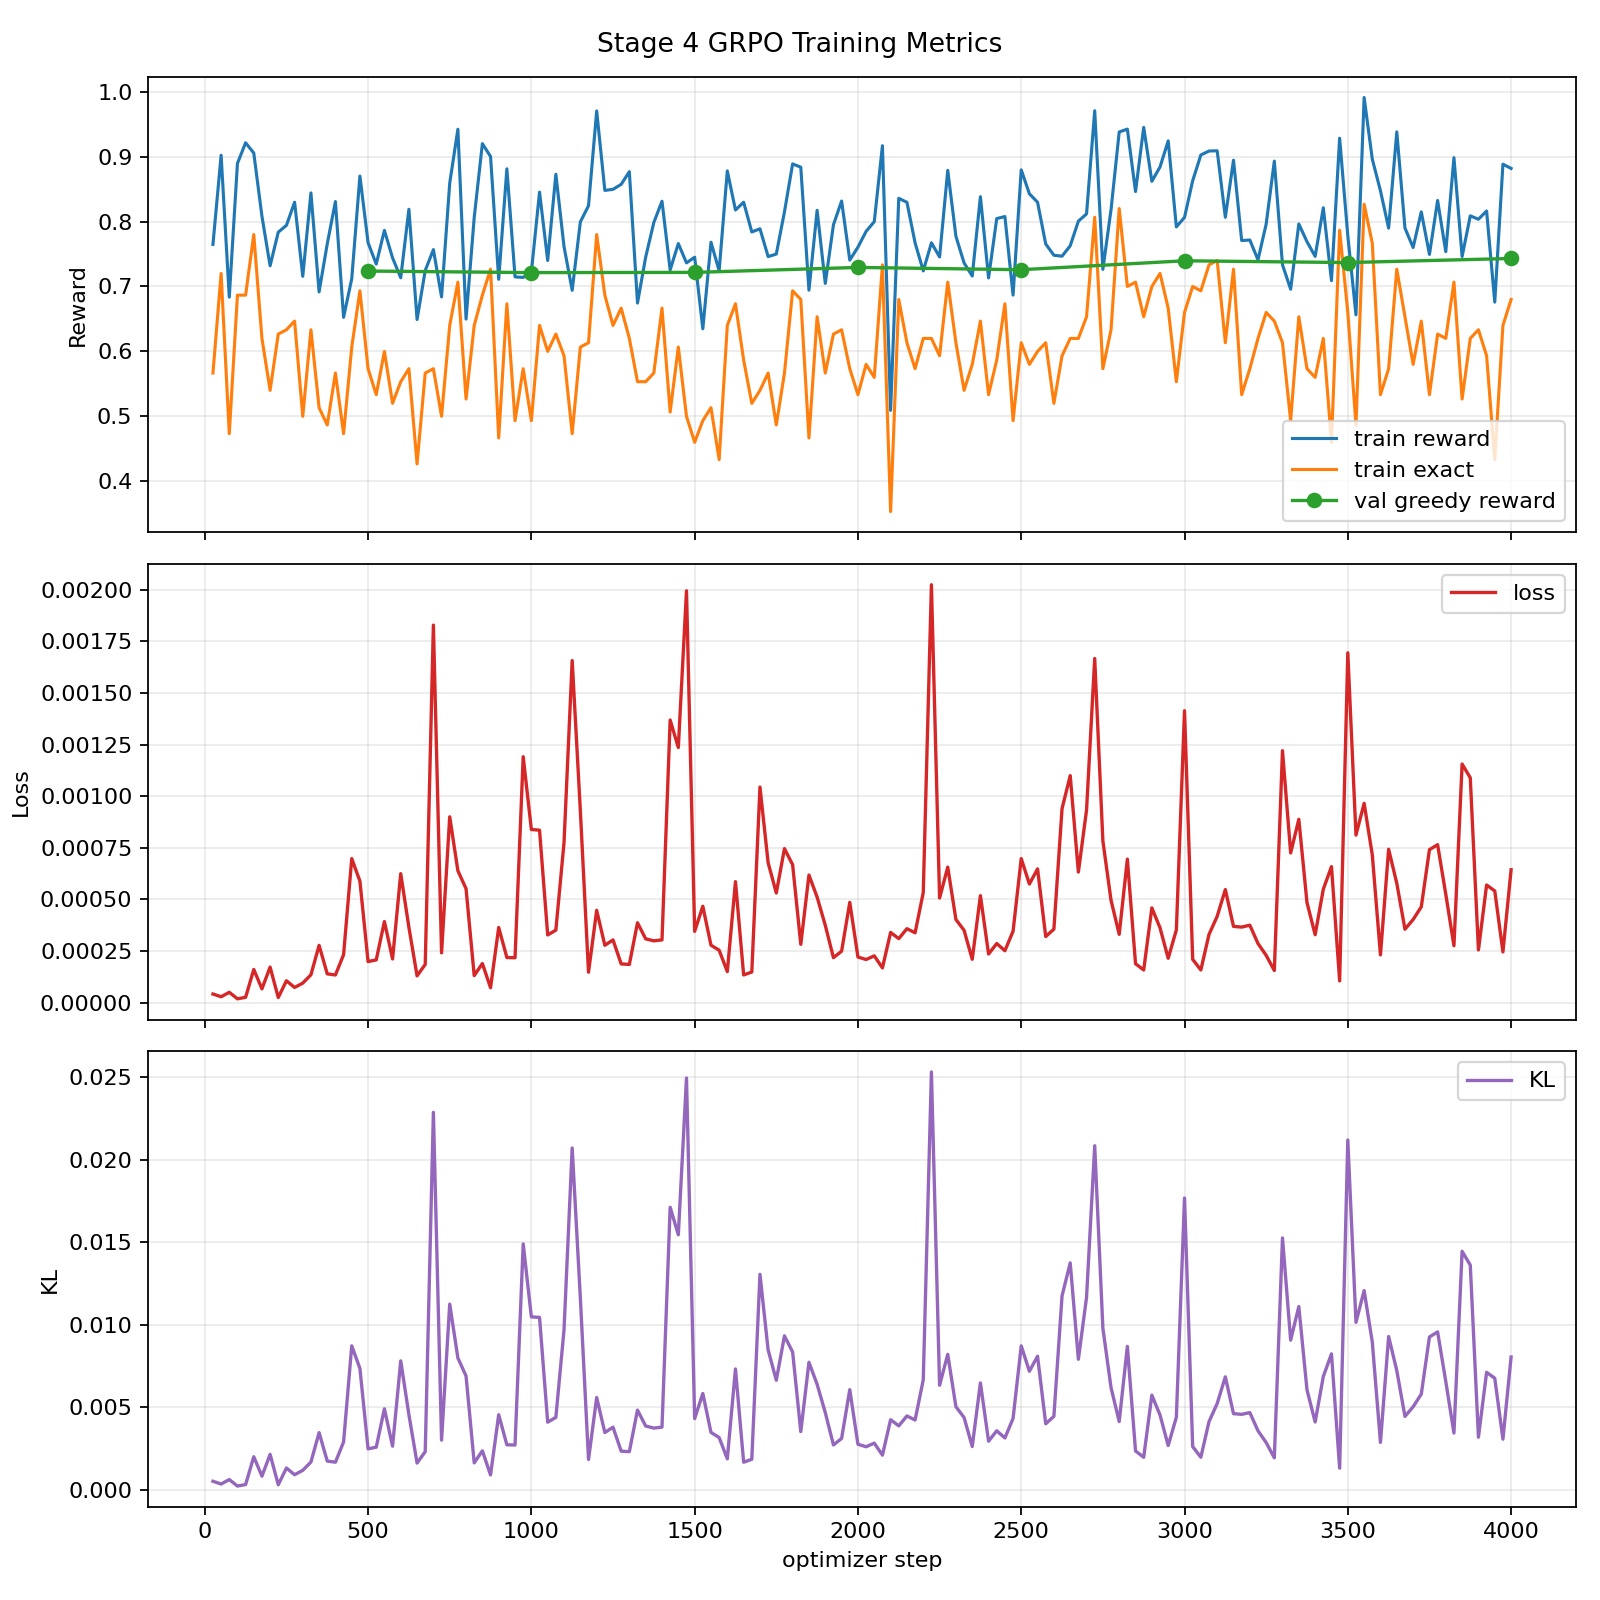
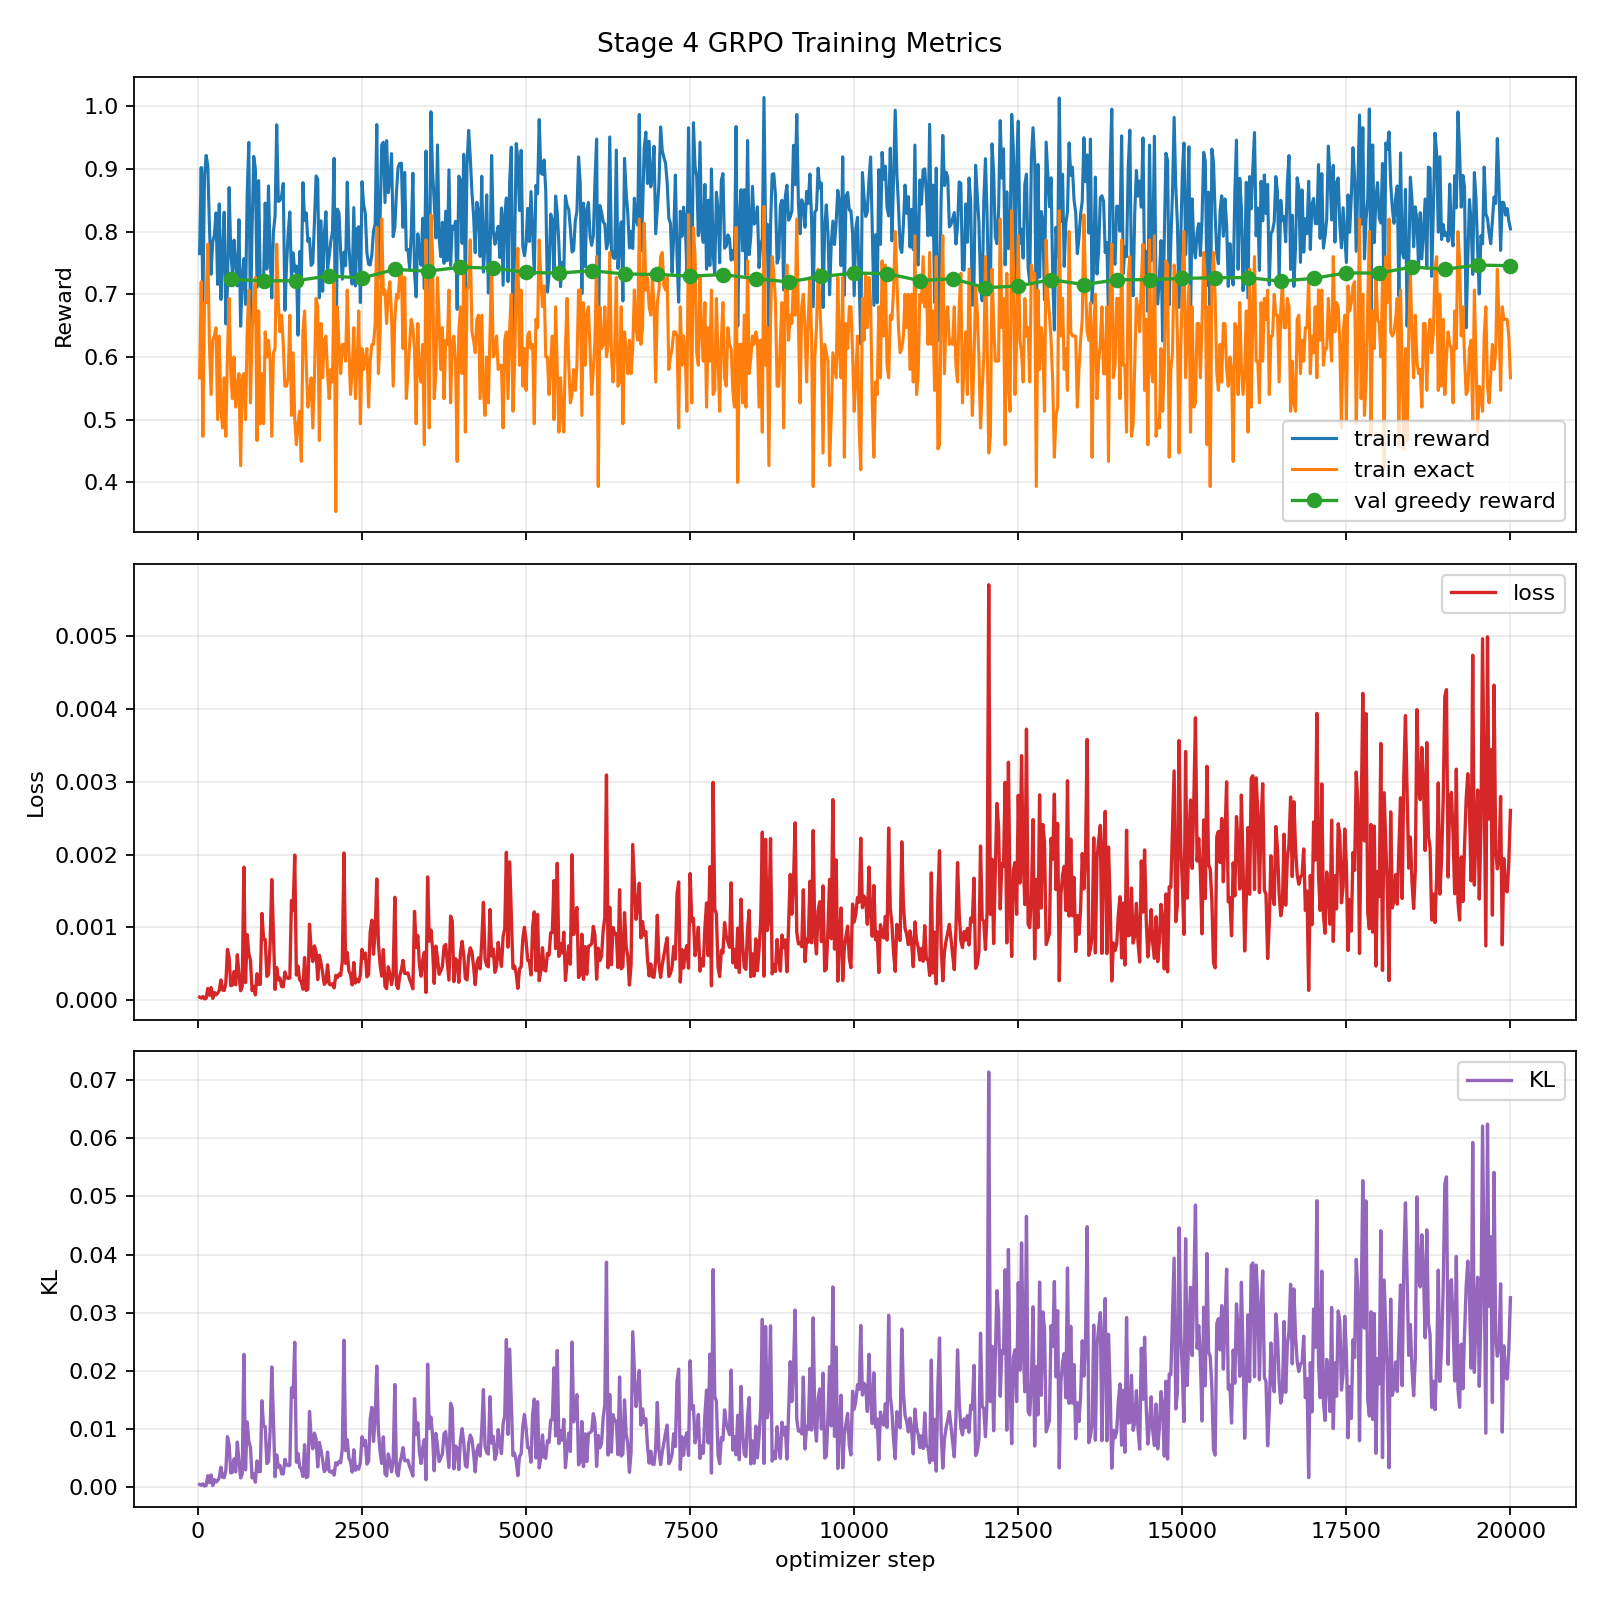
Resume visual GRPO to 20k

diff --git a/src/vlm/training/train_stage4_grpo.py b/src/vlm/training/train_stage4_grpo.py
@@ -54,6 +54,7 @@ class Stage4GRPOConfig:
     val_annotation_path: str | None = "/root/autodl-tmp/hf_datasets/stage4_ecommerce/stage4_abo/grpo/val.json"
     init_projector_path: str = "/root/autodl-tmp/checkpoints/stage4_abo_sft_100k_balanced/best/projector.pt"
     init_lora_path: str = "/root/autodl-tmp/checkpoints/stage4_abo_sft_100k_balanced/best/lora_adapter"
+    resume_from_checkpoint: str | None = None
     output_dir: str = "/root/autodl-tmp/checkpoints/stage4_abo_grpo"
 
     image_size: int = 384
@@ -130,6 +131,7 @@ def parse_args() -> Stage4GRPOConfig:
     parser.add_argument("--val-annotation-path", default=Stage4GRPOConfig.val_annotation_path)
     parser.add_argument("--init-projector-path", default=Stage4GRPOConfig.init_projector_path)
     parser.add_argument("--init-lora-path", default=Stage4GRPOConfig.init_lora_path)
+    parser.add_argument("--resume-from-checkpoint", default=Stage4GRPOConfig.resume_from_checkpoint)
     parser.add_argument("--output-dir", default=Stage4GRPOConfig.output_dir)
 
     parser.add_argument("--image-size", type=int, default=Stage4GRPOConfig.image_size)
@@ -192,6 +194,7 @@ def parse_args() -> Stage4GRPOConfig:
         val_annotation_path=args.val_annotation_path,
         init_projector_path=args.init_projector_path,
         init_lora_path=args.init_lora_path,
+        resume_from_checkpoint=args.resume_from_checkpoint,
         output_dir=args.output_dir,
         image_size=args.image_size,
         max_prompt_length=args.max_prompt_length,
@@ -332,6 +335,8 @@ def build_model(
     helper: VLMDataCollator,
     *,
     trainable: bool,
+    projector_path: str | Path | None = None,
+    lora_path: str | Path | None = None,
 ) -> QwenSiglipVLM:
     """加载 Stage4 SFT 模型。
 
@@ -354,14 +359,14 @@ def build_model(
         )
     )
 
-    projector_path = Path(config.init_projector_path)
+    projector_path = Path(projector_path or config.init_projector_path)
     if not projector_path.is_file():
         raise FileNotFoundError(f"初始化 projector 不存在：{projector_path}")
     model.projector.load_state_dict(torch.load(projector_path, map_location="cpu"))
 
     from peft import PeftModel
 
-    lora_path = Path(config.init_lora_path)
+    lora_path = Path(lora_path or config.init_lora_path)
     if not lora_path.is_dir():
         raise FileNotFoundError(f"初始化 LoRA adapter 不存在：{lora_path}")
     model.language_model = PeftModel.from_pretrained(
@@ -379,6 +384,38 @@ def build_model(
             param.requires_grad = False
         model.eval()
     return model
+
+
+def checkpoint_paths(checkpoint_dir: str | Path) -> tuple[Path, Path, Path]:
+    ckpt_dir = Path(checkpoint_dir)
+    projector_path = ckpt_dir / "projector.pt"
+    lora_path = ckpt_dir / "lora_adapter"
+    trainer_state_path = ckpt_dir / "trainer_state.pt"
+    if not projector_path.is_file():
+        raise FileNotFoundError(f"resume checkpoint 缺少 projector.pt：{projector_path}")
+    if not lora_path.is_dir():
+        raise FileNotFoundError(f"resume checkpoint 缺少 lora_adapter：{lora_path}")
+    if not trainer_state_path.is_file():
+        raise FileNotFoundError(f"resume checkpoint 缺少 trainer_state.pt：{trainer_state_path}")
+    return projector_path, lora_path, trainer_state_path
+
+
+def move_optimizer_state(optimizer: torch.optim.Optimizer, device: torch.device) -> None:
+    for state in optimizer.state.values():
+        for key, value in state.items():
+            if isinstance(value, Tensor):
+                state[key] = value.to(device)
+
+
+def best_val_from_metrics(metrics_path: Path) -> float:
+    if not metrics_path.is_file():
+        return float("-inf")
+    best = float("-inf")
+    for row in csv.DictReader(metrics_path.open("r", encoding="utf-8")):
+        raw = row.get("val_reward")
+        if raw:
+            best = max(best, float(raw))
+    return best
 
 
 def build_prompt(sample: dict[str, Any], image_token: str = DEFAULT_IMAGE_TOKEN) -> str:
@@ -883,6 +920,8 @@ def train(config: Stage4GRPOConfig) -> None:
     print(f"[init] device={device}")
     print(f"[init] output_dir={output_dir}")
     print(f"[init] init_lora_path={config.init_lora_path}")
+    if config.resume_from_checkpoint:
+        print(f"[init] resume_from_checkpoint={config.resume_from_checkpoint}")
     print(f"[init] train_projector={not config.freeze_projector}")
 
     train_loader, val_dataset, helper = build_dataloaders(config)
@@ -890,7 +929,22 @@ def train(config: Stage4GRPOConfig) -> None:
     if val_dataset is not None:
         print(f"[data] val prompts={len(val_dataset)}")
 
-    policy = build_model(config, helper, trainable=True).to(device)
+    resume_state: dict[str, Any] | None = None
+    resume_projector_path: Path | None = None
+    resume_lora_path: Path | None = None
+    if config.resume_from_checkpoint:
+        resume_projector_path, resume_lora_path, resume_state_path = checkpoint_paths(
+            config.resume_from_checkpoint
+        )
+        resume_state = torch.load(resume_state_path, map_location="cpu")
+
+    policy = build_model(
+        config,
+        helper,
+        trainable=True,
+        projector_path=resume_projector_path,
+        lora_path=resume_lora_path,
+    ).to(device)
     reference = build_model(config, helper, trainable=False).to(device)
     policy.train()
     reference.eval()
@@ -905,8 +959,23 @@ def train(config: Stage4GRPOConfig) -> None:
         weight_decay=config.weight_decay,
     )
 
-    global_step = 0
-    best_val_reward = float("-inf")
+    global_step = int(resume_state.get("step", 0)) if resume_state is not None else 0
+    best_val_reward = best_val_from_metrics(metrics_path)
+    if resume_state is not None:
+        if "optimizer" in resume_state:
+            optimizer.load_state_dict(resume_state["optimizer"])
+            move_optimizer_state(optimizer, device)
+            for group in optimizer.param_groups:
+                group["lr"] = config.learning_rate
+                group["weight_decay"] = config.weight_decay
+        if resume_state.get("val_reward") is not None:
+            best_val_reward = max(best_val_reward, float(resume_state["val_reward"]))
+        print(
+            "[resume] "
+            f"global_step={global_step} "
+            f"best_val_reward={best_val_reward:.4f} "
+            f"lr={config.learning_rate}"
+        )
     bad_eval_count = 0
     start = time.time()
     running: dict[str, float] = {}

diff --git a/src/vlm/eval/eval_stage4_ecommerce.py b/src/vlm/eval/eval_stage4_ecommerce.py
@@ -92,7 +92,9 @@ def parse_args() -> argparse.Namespace:
             "逗号分隔的 checkpoint 名称。可选："
             "stage1,stage1_dynamic,stage2,stage2_dynamic,stage3,"
             "stage4_5k,stage4_100k_balanced,stage4_grpo,stage4_grpo_20k,"
-            "stage4_grpo_short_v2,stage4_grpo_visual_v3。"
+            "stage4_grpo_short_v2,stage4_grpo_visual_v3,"
+            "stage4_grpo_visual_v3_step_004000,"
+            "stage4_grpo_visual_v3_step_020000。"
             "默认先对比 Stage3 和 Stage4-5k。"
         ),
     )
@@ -163,6 +165,16 @@ def default_checkpoint_specs() -> dict[str, CheckpointSpec]:
             name="stage4_abo_grpo_visual_v3_best",
             projector_path="/root/autodl-tmp/checkpoints/stage4_abo_grpo_visual_v3/best/projector.pt",
             lora_path="/root/autodl-tmp/checkpoints/stage4_abo_grpo_visual_v3/best/lora_adapter",
+        ),
+        "stage4_grpo_visual_v3_step_004000": CheckpointSpec(
+            name="stage4_abo_grpo_visual_v3_step_004000",
+            projector_path="/root/autodl-tmp/checkpoints/stage4_abo_grpo_visual_v3/step_004000/projector.pt",
+            lora_path="/root/autodl-tmp/checkpoints/stage4_abo_grpo_visual_v3/step_004000/lora_adapter",
+        ),
+        "stage4_grpo_visual_v3_step_020000": CheckpointSpec(
+            name="stage4_abo_grpo_visual_v3_step_020000",
+            projector_path="/root/autodl-tmp/checkpoints/stage4_abo_grpo_visual_v3/step_020000/projector.pt",
+            lora_path="/root/autodl-tmp/checkpoints/stage4_abo_grpo_visual_v3/step_020000/lora_adapter",
         ),
     }
 

diff --git a/README.md b/README.md
@@ -177,29 +177,33 @@ GRPO 对比实验：
 | Run | Main Setting | Observation |
 |---|---|---|
 | GRPO 300-step | short-answer reward | generation F1 提升，但整体 EM/F1 下降 |
-| GRPO 20k | long run, `NUM_GENERATIONS=4` | validation reward 变高，但真实评估整体退化，出现 reward hacking |
+| Legacy GRPO 20k | early reward design, `NUM_GENERATIONS=4` | validation reward 变高，但真实评估整体退化，出现 reward hacking |
 | GRPO short reward v2 | short run + stronger KL + early stopping + task-adaptive reward | 整体 F1 小幅超过 SFT，generation F1 高于 SFT |
-| GRPO visual v3 | clean labels + canonical alias reward + `NUM_GENERATIONS=6` + stronger KL | 300 样本评估中 EM/F1/Short EM/Generation F1 均超过 SFT 和 short v2 |
+| GRPO visual v3 | clean labels + canonical alias reward + `NUM_GENERATIONS=6` + stronger KL | 20k 续训后，300 样本评估中 EM/F1/Short EM/Generation F1 均超过 SFT 和 short v2 |
 
 GRPO visual v3 使用：
 
 - `REWARD_PROFILE=visual_v3`
 - `KL_BETA=0.08`
 - `LR=3e-6`
-- `MAX_STEPS=4000`
+- `MAX_STEPS=20000`
 - `NUM_GENERATIONS=6`
 - 只训练 Qwen LoRA，projector 冻结
 - brand/type/color/style 使用规范化 exact + contains/F1 shaping
 - title/summary 使用 token F1 主 reward，并对过长输出加长度惩罚
+- 断点续训入口：`RESUME_FROM_CHECKPOINT=/path/to/step_xxxxxx bash scripts/train_stage4_grpo_v3.sh`
 
-训练 best 出现在 step 4000：
+训练 best 出现在 step 19500；step 20000 的验证 reward 略低，但独立评估 EM 更高：
 
 | Step | Val Reward |
 |---:|---:|
 | 500 | 0.7238 |
 | 2000 | 0.7293 |
 | 3000 | 0.7396 |
-| 4000 | **0.7431** |
+| 4000 | 0.7431 |
+| 18500 | 0.7434 |
+| 19500 | **0.7466** |
+| 20000 | 0.7455 |
 
 ![Stage4 GRPO visual v3 metrics](docs/assets/stage4_grpo_visual_v3_metrics.png)
 
@@ -211,30 +215,32 @@ Stage4 电商 300 样本评估结果：
 |---|---:|---:|---:|---:|
 | Stage4 SFT 100k balanced | 0.5000 | 0.6593 | 0.6931 | 0.5422 |
 | GRPO 300-step | 0.4867 | 0.6498 | 0.6683 | 0.5589 |
-| GRPO 20k | 0.4767 | 0.6409 | 0.6683 | 0.5358 |
+| Legacy GRPO 20k | 0.4767 | 0.6409 | 0.6683 | 0.5358 |
 | GRPO short reward v2 | 0.4933 | 0.6609 | 0.6881 | 0.5528 |
-| GRPO visual v3 | **0.5067** | **0.6789** | **0.7030** | **0.5783** |
+| GRPO visual v3 step 4000 | 0.5067 | 0.6789 | 0.7030 | 0.5783 |
+| GRPO visual v3 best, step 19500 | 0.5133 | **0.6861** | **0.7079** | **0.6019** |
+| GRPO visual v3 final, step 20000 | **0.5200** | 0.6791 | 0.7030 | 0.5941 |
 
 ![Stage4 overall metrics](docs/assets/stage4_visual_v3_overall_metrics.png)
 
 按任务 F1：
 
-| Task | SFT100k F1 | GRPO short v2 F1 | GRPO visual v3 F1 | vs SFT |
+| Task | SFT100k F1 | GRPO short v2 F1 | GRPO visual v3 best F1 | vs SFT |
 |---|---:|---:|---:|---:|
-| attribute summary | 0.4943 | 0.5216 | **0.5435** | +0.0493 |
-| brand QA | **0.8256** | **0.8256** | **0.8256** | +0.0000 |
-| color QA | 0.6091 | 0.6352 | **0.6455** | +0.0364 |
-| style QA | 0.3800 | 0.3400 | **0.3933** | +0.0133 |
-| title generation | 0.5830 | 0.5792 | **0.6078** | +0.0248 |
-| type QA | **0.8421** | 0.8246 | **0.8421** | +0.0000 |
+| attribute summary | 0.4943 | 0.5216 | **0.5740** | +0.0797 |
+| brand QA | **0.8256** | **0.8256** | 0.8205 | -0.0051 |
+| color QA | 0.6091 | **0.6352** | 0.6273 | +0.0182 |
+| style QA | 0.3800 | 0.3400 | **0.4000** | +0.0200 |
+| title generation | 0.5830 | 0.5792 | **0.6257** | +0.0427 |
+| type QA | 0.8421 | 0.8246 | **0.8596** | +0.0175 |
 
 ![Stage4 by-task F1](docs/assets/stage4_visual_v3_by_task_f1.png)
 
 结论：
 
-- GRPO visual v3 将整体 F1 从 0.6593 提升到 0.6789，generation F1 从 0.5422 提升到 0.5783。
-- 短答案 EM 从 0.6931 提升到 0.7030；主要增益来自 color/style 的标签规范化和 reward shaping。
-- brand/type 已接近当前 300 样本评估上限，本轮主要没有牺牲这两类任务。
+- GRPO visual v3 best 将整体 F1 从 0.6593 提升到 0.6861，generation F1 从 0.5422 提升到 0.6019。
+- step 20000 的 EM 最高，为 0.5200；step 19500 的整体 F1 和 generation F1 更稳，因此保留为 `best/`。
+- 主要增益来自 attribute summary、title generation、style QA 和 type QA；brand/color 基本持平或小幅回落。
 
 ## Repository Structure
 
